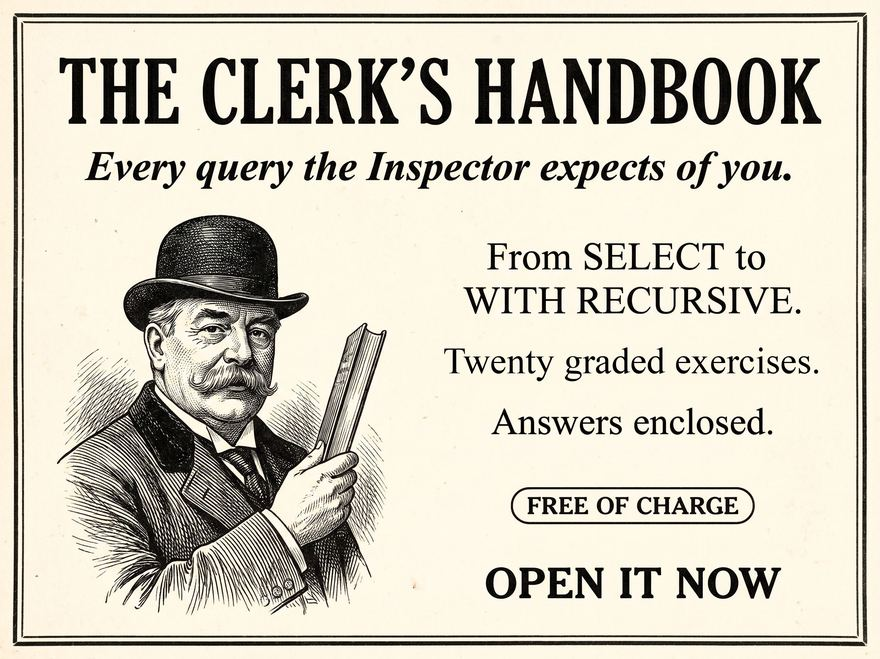
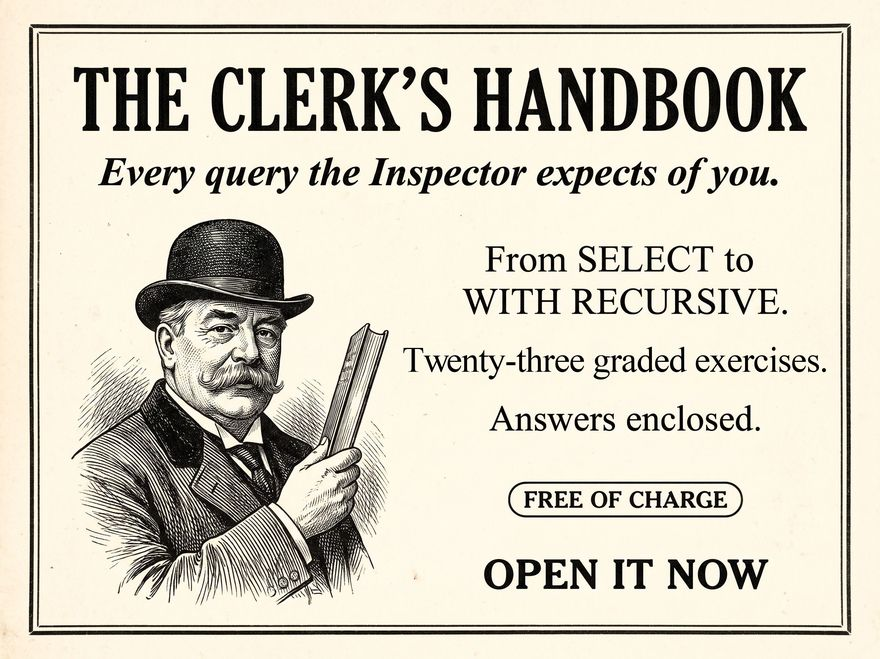
Handbook ad: Twenty-three graded exercises (line repainted in both prints, same typeface and size); alt texts and spec say twenty-three
Claude-Session: https://claude.ai/code/session_012C63YvCuHaGYgAWvvYksAa

diff --git a/site/index.html b/site/index.html
@@ -114,7 +114,7 @@
     <details id="press-box" class="press-box" open>
       <summary class="label">ADVERTISEMENTS</summary>
       <div class="press-slot">
-        <a class="press-notice" href="learn/" target="_blank" rel="noopener"><img class="day" src="handbook-ad.jpg" width="880" height="659" loading="lazy" alt="The Clerk's Handbook: every query the Inspector expects of you. From SELECT to WITH RECURSIVE. Twenty graded exercises, answers enclosed. Free of charge. Open it now."><img class="night" src="handbook-ad-night.jpg" width="880" height="659" loading="lazy" alt=""></a>
+        <a class="press-notice" href="learn/" target="_blank" rel="noopener"><img class="day" src="handbook-ad.jpg" width="880" height="659" loading="lazy" alt="The Clerk's Handbook: every query the Inspector expects of you. From SELECT to WITH RECURSIVE. Twenty-three graded exercises, answers enclosed. Free of charge. Open it now."><img class="night" src="handbook-ad-night.jpg" width="880" height="659" loading="lazy" alt=""></a>
       </div>
     </details>
   </aside>

diff --git a/site/learn/exercises.html b/site/learn/exercises.html
@@ -187,7 +187,7 @@
     <details id="press-box" class="press-box" open>
       <summary class="label">ADVERTISEMENTS</summary>
       <div class="press-slot">
-        <a class="press-notice" href="./"><img class="day" src="../handbook-ad.jpg" width="880" height="659" loading="lazy" alt="The Clerk's Handbook: every query the Inspector expects of you. From SELECT to WITH RECURSIVE. Twenty graded exercises, answers enclosed. Free of charge. Open it now."><img class="night" src="../handbook-ad-night.jpg" width="880" height="659" loading="lazy" alt=""></a>
+        <a class="press-notice" href="./"><img class="day" src="../handbook-ad.jpg" width="880" height="659" loading="lazy" alt="The Clerk's Handbook: every query the Inspector expects of you. From SELECT to WITH RECURSIVE. Twenty-three graded exercises, answers enclosed. Free of charge. Open it now."><img class="night" src="../handbook-ad-night.jpg" width="880" height="659" loading="lazy" alt=""></a>
       </div>
     </details>
   </div>

diff --git a/docs/superpowers/specs/2026-09-20-sql-mystery-game-design.md b/docs/superpowers/specs/2026-09-20-sql-mystery-game-design.md
@@ -783,7 +783,8 @@ real compete season.
   the-price-rise, the-staff-room, money-back, shutters-down, which asks for Hillcrest so the Fridays alone are
   wrong). The same day: a Day/Night edition button on the handbook, desk and board (`learn/theme.js`, sharing
   `ritz.theme`), the landing card in the handbook's split header and footer, and the engraved house ad's line
-  repainted to "Twenty graded exercises" in both prints (9f4e671; sources in `assets-source/ad/`).
+  repainted to "Twenty graded exercises" in both prints (9f4e671; sources in `assets-source/ad/`), then on 2026-11-11 to
+  "Twenty-three graded exercises" (same Times face and size, letter spacing 2 px tighter; sources `*-23.jpg`).
 - ~~`bakery.py` scaffolding~~ Done 2026-10-20: v1's schema, `LIVE` and `check(1)` dropped, the generator emits
   v2 only (its first-week rows renamed `FIRST_WEEK`); the script, every pasted result and the schemas unchanged.
 - ~~Handbook layout and reading pass~~ Done 2026-10-25 (owner): the exercises workbench spans the whole window
